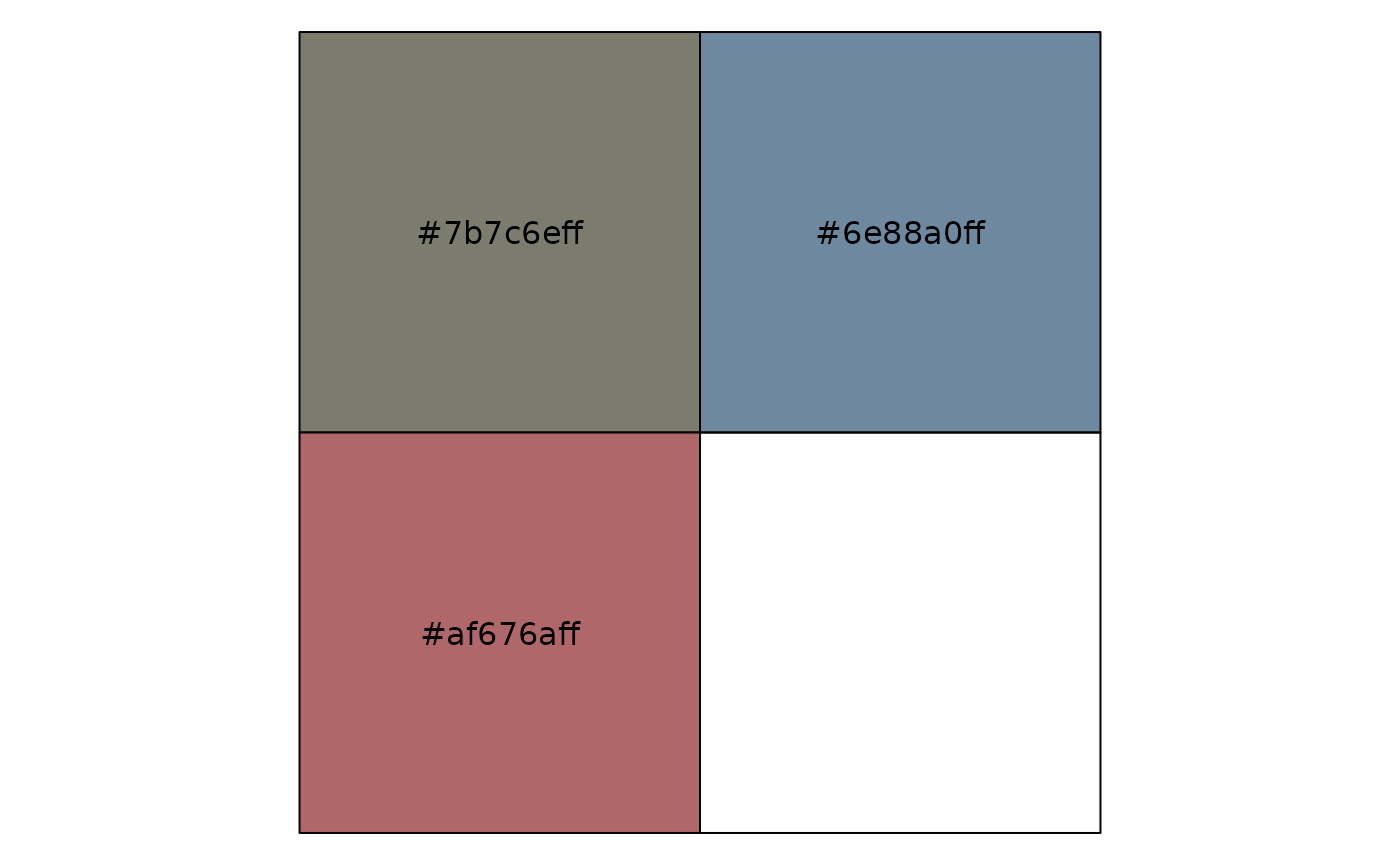
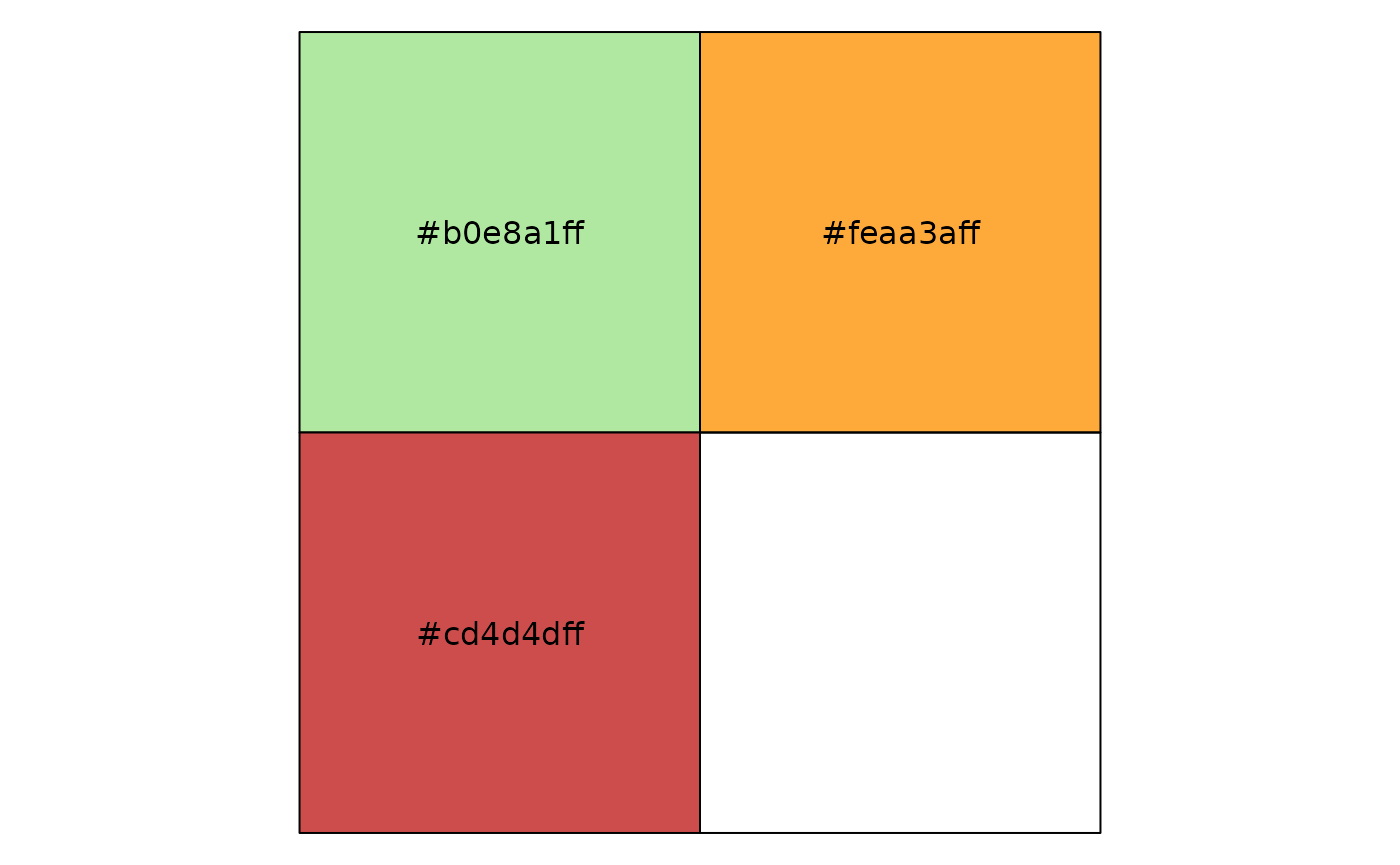
Deploying to gh-pages from @ matiasandina/jonohey@9642a04752b7544f9d7ed80bb6b83baad295520a 🚀

diff --git a/articles/usage.html b/articles/usage.html
@@ -79,8 +79,9 @@ display the palettes using the helper function
 <p>Here are all available palettes by name.</p>
 <div class="sourceCode" id="cb3"><pre class="downlit sourceCode r">
 <code class="sourceCode R"><span><span class="fu"><a href="../reference/jonohey_palettes.html">jonohey_palettes</a></span><span class="op">(</span><span class="op">)</span></span>
-<span><span class="co">#&gt; [1] "bg_col"        "jonored"       "autumn"        "color_wheel"  </span></span>
-<span><span class="co">#&gt; [5] "flying_fabric" "landlocked"    "suit"          "surfing"</span></span></code></pre></div>
+<span><span class="co">#&gt;  [1] "bg_col"        "jonored"       "autumn"        "color_wheel"  </span></span>
+<span><span class="co">#&gt;  [5] "dark"          "flying_fabric" "landlocked"    "light"        </span></span>
+<span><span class="co">#&gt;  [9] "suit"          "surfing"</span></span></code></pre></div>
 <blockquote>
 <p>Notice that as of this version, we store two single colors in
 palettes for convenience. One of them is the background for the theme.
@@ -90,7 +91,7 @@ internalized in the future</p>
 <p>Take a look at all palettes in full color :)</p>
 <div class="sourceCode" id="cb4"><pre class="downlit sourceCode r">
 <code class="sourceCode R"><span><span class="fu"><a href="https://rdrr.io/r/base/invisible.html" class="external-link">invisible</a></span><span class="op">(</span><span class="fu"><a href="https://rdrr.io/r/base/lapply.html" class="external-link">lapply</a></span><span class="op">(</span><span class="fu"><a href="../reference/jonohey_palettes.html">jonohey_palettes</a></span><span class="op">(</span><span class="op">)</span>, <span class="va">jonohey_show</span><span class="op">)</span><span class="op">)</span></span></code></pre></div>
-<p><img src="usage_files/figure-html/unnamed-chunk-4-1.png" width="700"><img src="usage_files/figure-html/unnamed-chunk-4-2.png" width="700"><img src="usage_files/figure-html/unnamed-chunk-4-3.png" width="700"><img src="usage_files/figure-html/unnamed-chunk-4-4.png" width="700"><img src="usage_files/figure-html/unnamed-chunk-4-5.png" width="700"><img src="usage_files/figure-html/unnamed-chunk-4-6.png" width="700"><img src="usage_files/figure-html/unnamed-chunk-4-7.png" width="700"><img src="usage_files/figure-html/unnamed-chunk-4-8.png" width="700"></p>
+<p><img src="usage_files/figure-html/unnamed-chunk-4-1.png" width="700"><img src="usage_files/figure-html/unnamed-chunk-4-2.png" width="700"><img src="usage_files/figure-html/unnamed-chunk-4-3.png" width="700"><img src="usage_files/figure-html/unnamed-chunk-4-4.png" width="700"><img src="usage_files/figure-html/unnamed-chunk-4-5.png" width="700"><img src="usage_files/figure-html/unnamed-chunk-4-6.png" width="700"><img src="usage_files/figure-html/unnamed-chunk-4-7.png" width="700"><img src="usage_files/figure-html/unnamed-chunk-4-8.png" width="700"><img src="usage_files/figure-html/unnamed-chunk-4-9.png" width="700"><img src="usage_files/figure-html/unnamed-chunk-4-10.png" width="700"></p>
 </div>
 </div>
 <div class="section level2">
